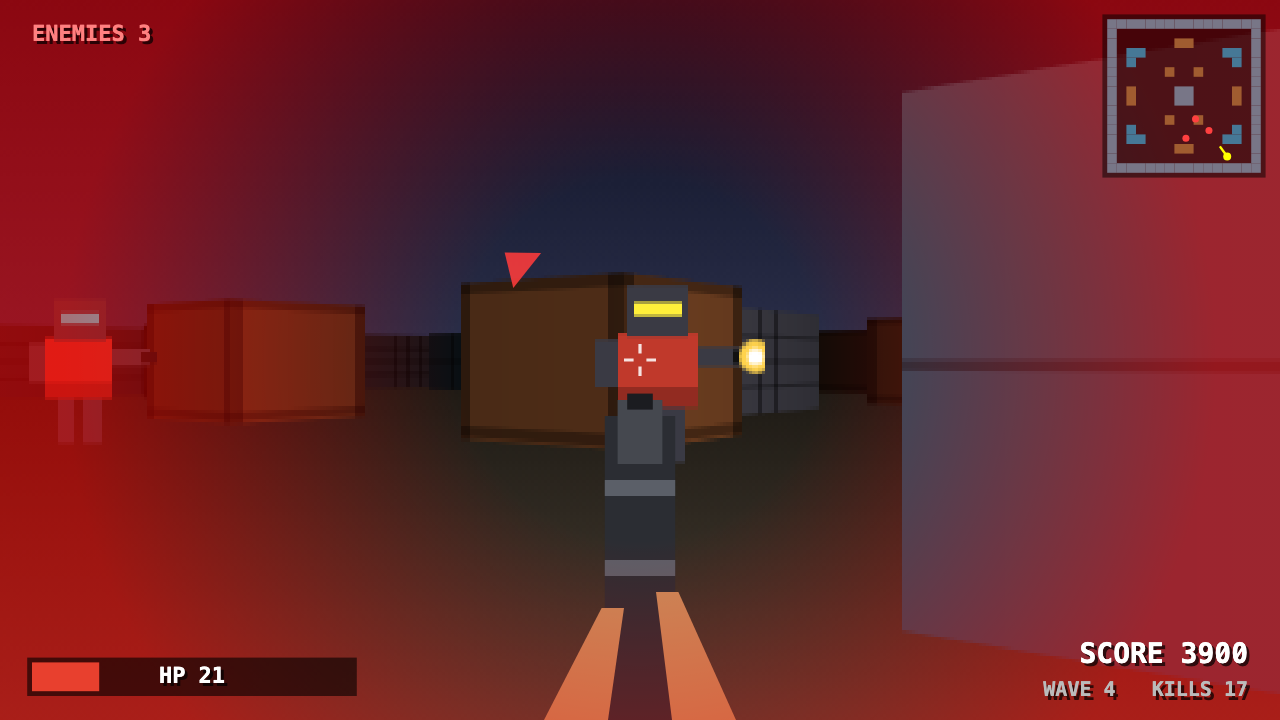
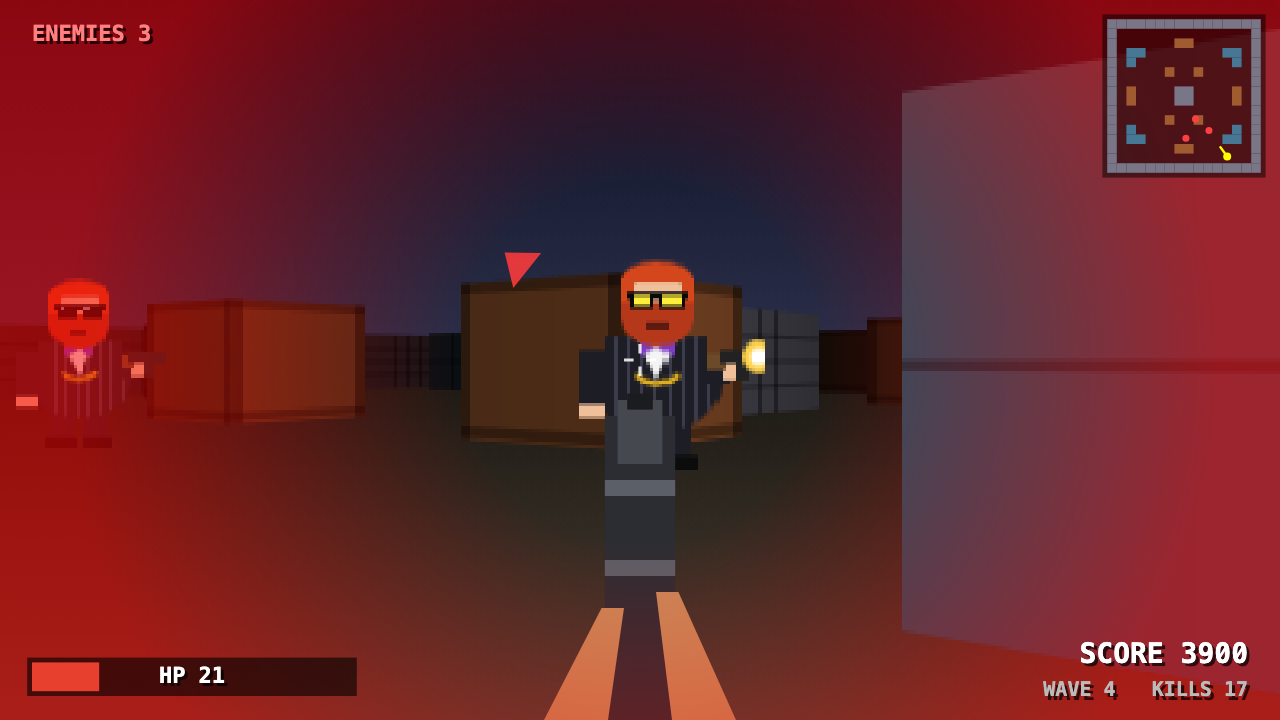
Add Big Red villain, aim assist and easier difficulty
- New original enemy sprite: red-bearded mob boss in pinstripe suit; shades flash yellow before firing
- Aim assist pulls crosshair onto nearest visible enemy within ~17deg when not turning
- Wider hit zone, faster fire rate, fewer hits per kill, lower enemy accuracy
- Shots now ray-cast their own wall check instead of reusing last frame's depth buffer
- Refresh screenshots and README

Changed region(s): [[0.4375, 0.3361, 0.5938, 0.6722], [0.0, 0.3667, 0.125, 0.5806]]

diff --git a/index.html b/index.html
@@ -67,28 +67,54 @@ floorG.addColorStop(0,'#1a1712'); floorG.addColorStop(1,'#4a4034');
 
 // ---------- SPRITES ----------
 function mk(draw){ const c=document.createElement('canvas'); c.width=c.height=64; draw(c.getContext('2d')); return c; }
-function robot(g,o){
-  const body = o.hurt ? '#fff' : '#c0392b', dark = o.hurt ? '#ddd' : '#3a3a44';
+// "Big Red": an original cartoon mob boss — fat, red hair + beard, pinstripe suit, bow tie, shades.
+function villain(g,o){
+  const h = o.hurt;
+  const suit=h?'#fff':'#1d1d26', stripe=h?'#ddd':'#3b3b4c', skin=h?'#fff':'#f0c09a',
+        hair=h?'#eee':'#d4471c', beard=h?'#e8e8e8':'#b5381a', gold=h?'#ddd':'#e6b422';
   if(o.dead){
-    g.fillStyle='#5a1a14'; g.fillRect(12,56,40,6);
-    g.fillStyle='#7b241c'; g.fillRect(18,50,26,7);
-    g.fillStyle='#333'; g.fillRect(40,52,10,4);
+    g.fillStyle='#1d1d26'; g.beginPath(); g.ellipse(34,58,22,6,0,0,7); g.fill();
+    g.fillStyle='#d4471c'; g.beginPath(); g.arc(13,57,6,0,7); g.fill();
+    g.fillStyle='#e6b422'; g.fillRect(26,55,12,2);
+    g.fillStyle='#222'; g.fillRect(46,59,12,3);
     return;
   }
-  const s = o.step||0;
-  g.fillStyle=dark; g.fillRect(24,44+(s?2:0),6,18-(s?2:0)); g.fillRect(34,44+(s?0:2),6,18-(s?0:2));
-  g.fillStyle=body; g.fillRect(20,24,24,22);
-  g.fillStyle=o.hurt?'#eee':'#922b21'; g.fillRect(20,40,24,6);
-  g.fillStyle=dark; g.fillRect(23,10,18,15);
-  g.fillStyle=o.aim ? '#ffef3a' : (o.hurt?'#fff':'#3df2ff'); g.fillRect(25,15,14,4);
-  g.fillStyle=dark; g.fillRect(14,26,6,14); g.fillRect(44,28,14,6);
-  g.fillStyle='#111'; g.fillRect(54,29,6,4);
-  if(o.fire){ g.fillStyle='#ffd34d'; g.beginPath(); g.arc(61,31,5,0,7); g.fill(); g.fillStyle='#fff'; g.beginPath(); g.arc(61,31,2.5,0,7); g.fill(); }
+  const s=o.step||0;
+  // legs + shoes
+  g.fillStyle=suit; g.fillRect(22,50+(s?1:0),8,11-(s?1:0)); g.fillRect(34,50+(s?0:1),8,11-(s?0:1));
+  g.fillStyle='#0c0c0c'; g.fillRect(20,60,11,4); g.fillRect(33,60,11,4);
+  // big round belly in a pinstripe suit
+  g.save(); g.beginPath(); g.ellipse(32,39,19,14,0,0,7); g.rect(17,25,30,12); g.clip();
+  g.fillStyle=suit; g.fillRect(12,24,40,32);
+  g.fillStyle=stripe; for(let x=15;x<50;x+=4) g.fillRect(x,24,1,32);
+  g.restore();
+  // shirt, bow tie, gold chain
+  g.fillStyle=h?'#fff':'#f4f4f4'; g.beginPath(); g.moveTo(26,25); g.lineTo(38,25); g.lineTo(32,38); g.fill();
+  g.fillStyle=h?'#ccc':'#7d3cc8';
+  g.beginPath(); g.moveTo(32,28); g.lineTo(27,25); g.lineTo(27,31); g.fill();
+  g.beginPath(); g.moveTo(32,28); g.lineTo(37,25); g.lineTo(37,31); g.fill();
+  g.strokeStyle=gold; g.lineWidth=1.5; g.beginPath(); g.arc(32,30,9,0.25*Math.PI,0.75*Math.PI); g.stroke();
+  // arms: left hangs, right holds the gun
+  g.fillStyle=suit; g.fillRect(9,29,8,17); g.fillStyle=skin; g.fillRect(9,45,8,4);
+  g.fillStyle=suit; g.fillRect(44,31,9,8); g.fillStyle=skin; g.fillRect(51,32,4,6);
+  g.fillStyle='#6b4a2a'; g.fillRect(47,30,5,5);
+  g.fillStyle='#222'; g.fillRect(50,29,13,4); g.fillRect(55,33,4,5);
+  // head, red hair, big beard
+  g.fillStyle=skin; g.beginPath(); g.arc(32,15,9,0,7); g.fill();
+  g.fillStyle=hair; g.beginPath(); g.ellipse(32,9,11,6,0,Math.PI,0); g.fill();
+  g.fillRect(21,8,4,8); g.fillRect(39,8,4,8);
+  g.fillStyle=beard; g.beginPath(); g.ellipse(32,19,11,9,0,0,Math.PI); g.fill(); g.fillRect(21,15,22,5);
+  g.fillStyle='#5a1a10'; g.fillRect(29,21,6,2);
+  // sunglasses — lenses flash yellow when about to fire
+  g.fillStyle='#0a0a0a'; g.fillRect(23,12,18,2); g.fillRect(24,12,7,5); g.fillRect(33,12,7,5);
+  if(o.aim){ g.fillStyle='#ffef3a'; g.fillRect(25,13,5,3); g.fillRect(34,13,5,3); }
+  else if(!h){ g.fillStyle='#9ab'; g.fillRect(25,13,2,1); g.fillRect(34,13,2,1); }
+  if(o.fire){ g.fillStyle='#ffd34d'; g.beginPath(); g.arc(62,31,5,0,7); g.fill(); g.fillStyle='#fff'; g.beginPath(); g.arc(62,31,2.5,0,7); g.fill(); }
 }
 const SPR = {
-  walk0: mk(g=>robot(g,{step:0})), walk1: mk(g=>robot(g,{step:1})),
-  aim: mk(g=>robot(g,{aim:1})), fire: mk(g=>robot(g,{aim:1,fire:1})),
-  hurt: mk(g=>robot(g,{hurt:1})), dead: mk(g=>robot(g,{dead:1})),
+  walk0: mk(g=>villain(g,{step:0})), walk1: mk(g=>villain(g,{step:1})),
+  aim: mk(g=>villain(g,{aim:1})), fire: mk(g=>villain(g,{aim:1,fire:1})),
+  hurt: mk(g=>villain(g,{hurt:1})), dead: mk(g=>villain(g,{dead:1})),
   med: mk(g=>{ g.fillStyle='#eee'; g.fillRect(22,46,20,16); g.fillStyle='#d22'; g.fillRect(29,48,6,12); g.fillRect(25,51,14,6); })
 };
 
@@ -165,7 +191,7 @@ function startGame(){
 
 function spawnWave(){
   wave++; bfs();
-  const n = Math.min(1+wave, 8), hp = 3+Math.floor(wave/3);
+  const n = Math.min(1+wave, 8), hp = 2+Math.floor(wave/4);
   const spots=[];
   for(let y=0;y<MH;y++) for(let x=0;x<MW;x++) if(cell(x,y)===0 && dist[y*MW+x]>=7) spots.push([x,y]);
   for(let i=0;i<n && spots.length;i++){
@@ -177,17 +203,31 @@ function spawnWave(){
 }
 
 // ---------- UPDATE ----------
+// distance to the first wall straight ahead (DDA along the view direction)
+function wallAhead(){
+  const rx=Math.cos(P.a), ry=Math.sin(P.a);
+  let mx=Math.floor(P.x), my=Math.floor(P.y);
+  const ddx=Math.abs(1/rx), ddy=Math.abs(1/ry);
+  let sx, sy, sdx, sdy, side=0;
+  if(rx<0){ sx=-1; sdx=(P.x-mx)*ddx; } else { sx=1; sdx=(mx+1-P.x)*ddx; }
+  if(ry<0){ sy=-1; sdy=(P.y-my)*ddy; } else { sy=1; sdy=(my+1-P.y)*ddy; }
+  for(let i=0;i<64;i++){
+    if(sdx<sdy){ sdx+=ddx; mx+=sx; side=0; } else { sdy+=ddy; my+=sy; side=1; }
+    if(cell(mx,my)) break;
+  }
+  return side===0 ? sdx-ddx : sdy-ddy;
+}
 function shoot(){
-  P.cd=0.28; P.recoil=1; P.flash=0.06; sfx('shot');
+  P.cd=0.2; P.recoil=1; P.flash=0.06; sfx('shot');
   const dX=Math.cos(P.a), dY=Math.sin(P.a), pX=-dY*0.66, pY=dX*0.66, inv=1/(pX*dY-dX*pY);
-  let hit=null, hitTy=1e9;
+  let hit=null, hitTy=1e9; const wall=wallAhead();
   for(const e of enemies){
     if(e.dead) continue;
     const sx=e.x-P.x, sy=e.y-P.y;
     const tx=inv*(dY*sx-dX*sy), ty=inv*(-pY*sx+pX*sy);
     if(ty<0.2) continue;
     const scx=(W/2)*(1+tx/ty), sw=H/ty;
-    if(Math.abs(scx-W/2) < sw*0.2 && ty < zbuf[W>>1]+0.05 && ty<hitTy){ hit=e; hitTy=ty; }
+    if(Math.abs(scx-W/2) < Math.max(sw*0.45, 14) && ty < wall+0.05 && ty<hitTy){ hit=e; hitTy=ty; }
   }
   if(hit){
     hit.hp--; hit.hurt=0.12; hitMark=0.15; hit.aim=0; hit.cd=Math.max(hit.cd,0.4);
@@ -212,6 +252,16 @@ function update(dt){
   if(keys.ArrowRight) P.a+=2.6*dt;
   let mv=0; if(keys.ArrowUp) mv+=1; if(keys.ArrowDown) mv-=0.7;
   if(mv){ const s=3.2*dt*mv; moveEntity(P,Math.cos(P.a)*s,Math.sin(P.a)*s,0.22); P.bob+=dt*10*Math.abs(mv); }
+  // aim assist: when not turning, gently pull the crosshair onto the nearest visible enemy
+  if(!keys.ArrowLeft && !keys.ArrowRight){
+    let bestDa=0.3, pull=0;
+    for(const e of enemies){
+      if(e.dead) continue;
+      let da=Math.atan2(e.y-P.y,e.x-P.x)-P.a; da=Math.atan2(Math.sin(da),Math.cos(da));
+      if(Math.abs(da)<bestDa && los(P,e)){ bestDa=Math.abs(da); pull=da; }
+    }
+    if(pull) P.a+=Math.sign(pull)*Math.min(Math.abs(pull), 3.2*dt);
+  }
   P.cd-=dt; if(keys.Space && P.cd<=0) shoot();
   P.recoil=Math.max(0,P.recoil-dt*6); P.flash-=dt; P.hurt-=dt; hitMark-=dt;
   bfs();
@@ -228,7 +278,7 @@ function update(dt){
       if(e.aim<=0){
         e.flash=0.12; e.cd=Math.max(0.6, 1.4+Math.random()*1.2-wave*0.06); sfx('eshot');
         if(los(e,P)){
-          const chance = Math.max(0.2, 0.8-d*0.05);
+          const chance = Math.max(0.12, 0.55-d*0.05);
           if(Math.random()<chance) hurtPlayer(e, 6+Math.floor(Math.random()*6)+Math.min(wave,6));
         }
       }
@@ -413,8 +463,8 @@ function render(){
   else { ctx.fillStyle='#111'; ctx.fillRect(0,0,DW,DH); }
   if(state==='play'){ drawGun(); drawHUD(); }
   else if(state==='title'){
-    overlay('ARENA', ['Survive endless waves of combat robots.', '↑ ↓  move     ← →  turn     SPACE  shoot',
-      'Yellow visor = about to fire. Grab medkits.', best?('Best: '+best):'', 'Press SPACE to start']);
+    overlay('ARENA', ["Survive endless waves of Big Red's mob.", '↑ ↓  move     ← →  turn     SPACE  shoot',
+      'Shades flash yellow = about to fire. Grab medkits.', best?('Best: '+best):'', 'Press SPACE to start']);
   } else if(state==='over'){
     drawHUD();
     overlay('YOU DIED', ['Score '+score+'   ·   Wave '+wave+'   ·   Kills '+kills, 'Best '+best,

diff --git a/README.md b/README.md
@@ -2,11 +2,11 @@
 
 # 🔫 ARENA
 
-**A retro first-person shooter that runs in your browser. One file, zero dependencies, endless robot waves.**
+**A retro first-person shooter that runs in your browser. One file, zero dependencies, endless waves of Big Red's mob.**
 
 ### [▶ Play now in your browser](https://iamsaikatbanerjee.github.io/shooter-game/)
 
-![Gameplay: aiming at a robot about to fire, with a medkit nearby](docs/action.png)
+![Gameplay: aiming at a red-bearded mob boss about to fire, with a medkit nearby](docs/action.png)
 
 </div>
 
@@ -14,7 +14,9 @@
 
 ## 🎮 How to play
 
-You're locked in an arena with combat robots. Every wave sends more of them, faster and tougher. Stay alive as long as you can.
+You're locked in an arena with **Big Red's mob**: big, red-bearded bruisers in pinstripe suits and shades. Every wave sends more of them, faster and tougher. Stay alive as long as you can.
+
+**Built to be easy to pick up:** aim assist pulls your crosshair onto any enemy you're roughly facing, so just turn towards them and hold <kbd>Space</kbd>.
 
 | Key | Action |
 |:---:|---|
@@ -27,12 +29,12 @@ That's all of it. No mouse needed.
 
 ### Survival tips
 
-- 🟡 **Watch the visor.** A bot's visor turns **yellow** for a split second before it fires. That's your cue to break line of sight.
-- 🧱 **Use cover.** Bots only shoot what they can see. Pillars and crates block bullets both ways.
+- 🟡 **Watch the shades.** An enemy's sunglasses flash **yellow** for a split second before he fires. That's your cue to break line of sight.
+- 🧱 **Use cover.** Enemies only shoot what they can see. Pillars and crates block bullets both ways.
 - 🔺 **Follow the red arrow.** When you get hit, an arrow on screen points to the shooter.
-- ➕ **Grab medkits.** Destroyed bots sometimes drop one (+25 HP). Clearing a wave also restores +15 HP.
-- 🗺 **Check the minimap** (top right). Red dots are bots, green dots are medkits.
-- 🎯 **Close range = easier hits** for both sides. Bots lose accuracy at a distance, and so do you if you panic.
+- ➕ **Grab medkits.** Downed enemies sometimes drop one (+25 HP). Clearing a wave also restores +15 HP.
+- 🗺 **Check the minimap** (top right). Red dots are enemies, green dots are medkits.
+- 🎯 **Hold Space and let the assist work.** Turn roughly towards an enemy and the crosshair snaps onto him. Enemies also lose accuracy at a distance.
 
 ### Scoring
 
@@ -46,7 +48,7 @@ Each kill is worth **100 × the current wave number**, so late waves pay much mo
 |:---:|:---:|
 | ![Title screen](docs/title.png) | ![Wave 5 starting](docs/wave.png) |
 | **Title screen** | **A new wave rolls in** |
-| ![Taking damage at low health](docs/hurt.png) | ![Firing at a robot](docs/action.png) |
+| ![Taking damage at low health](docs/hurt.png) | ![Firing at Big Red](docs/action.png) |
 | **Under fire, low HP** | **Hit confirmed** |
 
 ---
@@ -75,9 +77,9 @@ open index.html        # macOS  (Windows: start index.html, Linux: xdg-open inde
 Everything lives in a single [`index.html`](index.html), written in plain JavaScript with no libraries, build step or assets.
 
 - **Raycasting engine.** The 3D view is drawn column by column with a DDA ray-marcher (the classic 90s technique), with distance fog and per-material wall detail (brick, crates, metal panels).
-- **Billboard sprites.** Robots and medkits are drawn procedurally to small canvases at startup, then depth-sorted and clipped against a per-column z-buffer.
-- **Enemy AI.** Bots chase you using a breadth-first-search flow field across the arena grid. When they can see you, they strafe and keep their spacing, and they telegraph each shot before firing.
-- **Hitscan combat.** Your shots use the same screen projection as the renderer, so what you see under the crosshair is what you hit.
+- **Billboard sprites.** The villain and medkits are drawn procedurally to small canvases at startup, then depth-sorted and clipped against a per-column z-buffer.
+- **Enemy AI.** Enemies chase you using a breadth-first-search flow field across the arena grid. When they can see you, they strafe and keep their spacing, and they telegraph each shot before firing.
+- **Hitscan combat + aim assist.** Your shots use the same screen projection as the renderer, so what you see under the crosshair is what you hit. When you aren't turning, the aim gently rotates towards the nearest visible enemy within about 17° of the crosshair.
 - **Procedural audio.** Gunfire, hits and pickups are synthesized live with the Web Audio API, so there are no sound files.
 - **Low-res, crisp HUD.** The world renders at 400×225 and is upscaled with sharp pixels, while the HUD renders at full resolution.
 
